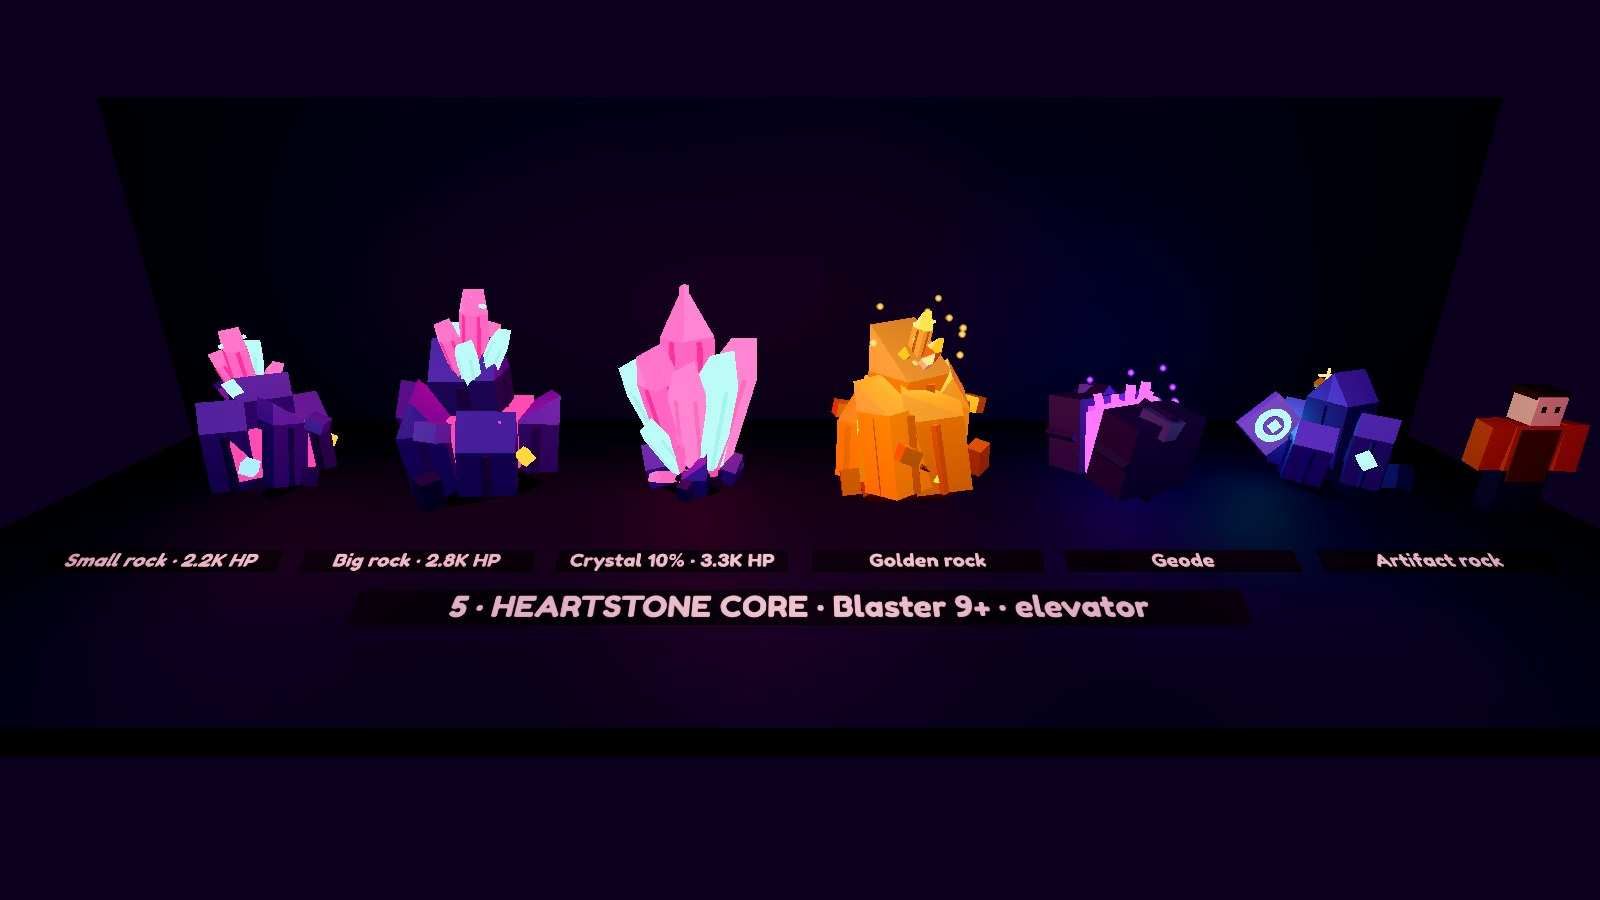
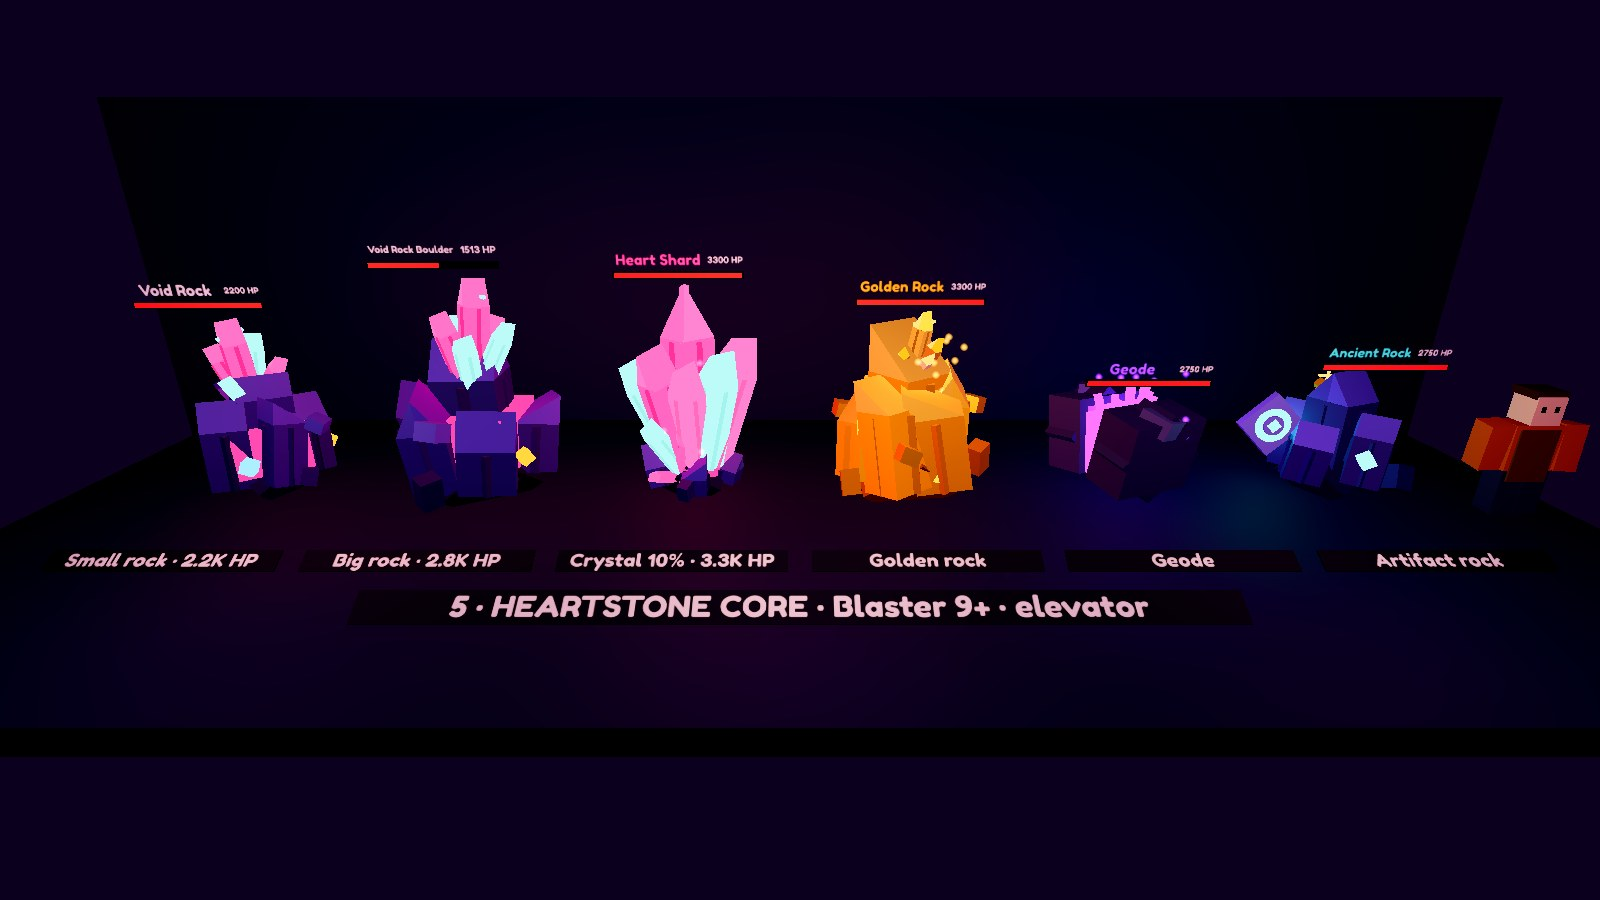
Floor 1 rocks stand out, rock name + HP labels
Greystone Quarry rocks are now blue-grey slate shards (they pop on the
sandy floor) with pale layers, shiny copper veins and nuggets, grass
tufts and big copper/quartz crystal crowns with glowing tips; crystal
crowns grow a bit on every floor. New RockLabel UI builder (name in the
rock's color, HP text, red bar, "Lv N" when locked) with MineFloors
rock names and label colors, tests, and labels in the preview rows.

diff --git a/docs/plans/MINE_FLOORS_PLAN.md b/docs/plans/MINE_FLOORS_PLAN.md
@@ -9,6 +9,8 @@ Goal: the deeper the floor, the harder the rocks, the better the ores, and the c
 | src/shared/Config/MineFloors.luau | 5 floors: blaster gate 1/3/5/7/9, 6 home ores each (all 30 ores), better `CrystalOres`, palettes, lighting preset, elevator flag; rock kinds, ore counts (3/4/3), `Seconds` per kind (4/5/6 s with the floor's weakest blaster), spawn chances (Big 30 %, Crystal 10 %, Golden 2 %, Geode 1.5 %, Artifact 1 %), Giant Crystal (every 600 s), elevator price; `rockHealth(floor, kind)` |
 | src/shared/Builders/RockBuilder.luau | v3 (owner: "more shard shapes", The Forge basalt rocks as reference): a tall central stone shard and a ring of shards leaning outward, each with extra facets and a slanted or ridged top (palace: upright pillars with gold trims), a glowing core in the gaps (lava, ice, gold, heart glow) and dense clusters of slim two-tone faceted crystals (glowing tips, twinkles, pointed hero crystals made of exact triangles). `build(floor, kind, oreIds, base, seed)` for Small, Big, Crystal, Golden, Geode, Artifact, Giant; floor looks (quarry matte copper/quartz → ember lava seams + fire tips → lagoon moss, mushroom, glassy crystals → palace carved stone, gold trim, column → core floating rock, debris, pure glow); `applyStage(model, stage, seed)`: cracks glowing in the stage's ore color on the outer chunks, one chunk + one crystal break off. Budgets 66–92 parts (Giant 170) |
 | src/shared/Config/LightingConfig.luau | presets `Lagoon`, `Palace`, `Core` |
+| src/client/UI/RockLabel.luau | name + HP over a rock (owner: "like The Forge"): name in `MineFloors.labelColor`, "20 HP" (or red "Lv 5" when locked), red HP bar; 45-stud range, hidden behind walls. Names from `MineFloors.rockName` (Greystone / Basalt / Hollow Stone / Palace Stone / Void Rock, "… Boulder", "Quartz Shard" …, Golden Rock, Geode, Ancient Rock, Giant …). Wire it in MiningController with the gameplay step (max ~12 labels, nearest rocks) |
+| Floor 1 (owner: "only the first floor is not as good") | blue-grey slate shards that stand out on the sand, pale layers, shiny copper veins and nuggets, grass tufts, big copper/quartz crystal crowns with glowing tips |
 | tests/MineFloors.spec.luau | floors, ore coverage, HP ≈ seconds, budgets, crystals grow with depth, crack stages |
 | tools/lune/lib/mine_concepts.luau, tools/preview/mine_shots.json | scene `mine_rocks`: rock rows per floor, Giant Crystals, breaking storyboard; scene `mine_showcase`: the stepped neon ore shelf like the owner's reference |
 
